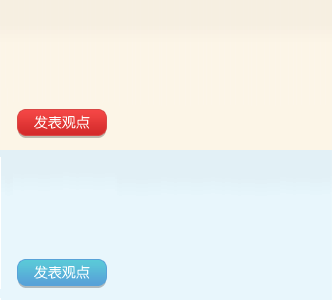
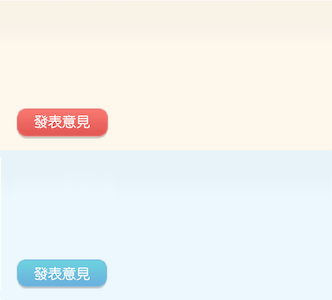
images and wordings with mascot

diff --git a/public/app/views/frontpage/pkview-page-details.html b/public/app/views/frontpage/pkview-page-details.html
@@ -20,10 +20,10 @@
                 <b class="bar-bg-r abs"></b>
                 <table>
                     <tbody><tr>
-                        <td class="bar-l" style="width: 70%;"><span id="zf_span"><span id="zf_text">紅方比例 </span>
+                        <td class="bar-l" style="width: 70%;"><span id="zf_span"><span id="zf_text">紅豆豆 </span>
                             <span id="zf_percent">70</span>%</span></td><td class="bar-r">
                             <span id="ff_text">
-                            <span id="ff_text">藍方比例 </span>
+                            <span id="ff_text">藍豆豆 </span>
                             <span id="ff_persent">30</span>%</span>
                         </td>
                     </tr></tbody>
@@ -37,9 +37,9 @@
                 <div class="intro rel">
                     <h2 class="abs" id="red_agree_count">27</h2>
                     <a href="javascript:void(0);" class="abs" id="red_agree_a"></a>
-                    <em class="abs" id="red_camp" ng-show="pkview.isRed">(我已投票給紅方)</em>
-                        <dl class="f14 abs">
-                        <dt>紅方：</dt>
+                    <em class="abs" id="red_camp" ng-show="pkview.isRed">(我支持紅豆豆)</em>
+                    <dl class="f14 abs">
+                        <dt>紅豆豆：</dt>
                         <dd>
                             <p>{{pkview.red_ds}}</p>
                             <span class="f12">已發表觀點：<span class="f16" id="red_view_count">{{pkview.norv}}</span></span>
@@ -52,7 +52,7 @@
                     <span class="abs" id="r_z">您還可以輸入<b>140</b>字</span>
                 </div>
                 <div class="tabs rel" id="red_gd_tab">
-                <a href="javascript:void(0)" class="selected">大家的观点</a></div>
+                <a href="javascript:void(0)" class="selected">大家的觀點</a></div>
                 <div class="order rel" id="red_order_tab">
                 <a href="javascript:void(0)" class="cBlues">按时间排列</a>|<a href="javascript:void(0)">按热度排列</a></div>
                 <div class="list rel" id="r_container">
@@ -62,7 +62,6 @@
                     <div id="item_300411" class="item" style="">
                         <div class="user"><a class="avatar" target="_blank" href="http://home.babytree.com/u89806957267"><img src="http://pic05.babytreeimg.com/foto3/thumbs/2014/0615/99/5/14e8e96ad33dacc24108dc33_hs.jpg"></a><a href="http://home.babytree.com/u89806957267" target="_blank" title="我家的鲁西西">我家的鲁西</a></div><div class="comm"><ins></ins><div class="text"><span>反驳<a href="http://home.babytree.com/u13364416735" target="_blank">多多妈1229</a>：<br>可是不容否认的是 缺陷的孩子还是很多的啊 特别是周围的中老年人中 智障的什么的 更多吧<div class="quote"><span>“我们上几辈也没补充什么营养啊，我们不也挺好的”</span></div></span></div><div class="status"><b>2014-12-21 20:44</b><a href="javascript:void(0)">反驳(<span>0)</span></a><a href="javascript:void(0)">顶(<span>0</span>)</a></div><div class="input-box rel" style="display: none;"><textarea class="f12"></textarea><label class="abs"><input type="checkbox">同步到薇博</label><a href="javascript:void(0)" class="abs"></a></div></div>
                     </div>
-                    <div class="list-page"><a href="javascript:void(0)">首页</a><a class="cBlue" href="javascript:void(0)" attr="1">1</a><a href="javascript:void(0)" attr="2">2</a><a href="javascript:void(0)" attr="3">3</a><a href="javascript:void(0)" attr="4">4</a><a href="javascript:void(0)" attr="5">5</a><a href="javascript:void(0)" attr="6">6</a><a href="javascript:void(0)" attr="7">7</a><a href="javascript:void(0)" attr="8">8</a><a href="javascript:void(0)" attr="9">9</a><a href="javascript:void(0)">...</a><a href="javascript:void(0)">下一页</a><a href="javascript:void(0)">尾页</a></div>
                 </div>
                 <img src="http://img03.babytreeimg.com/img/common/loading_pic_s.gif" id="l_loadimg" class="loadimg" style="display: none;">
             </div>
@@ -73,9 +72,9 @@
                 <div class="intro rel">
                     <h2 class="abs" id="blue_agree_count">3</h2>
                     <a href="javascript:void(0);" class="abs" id="blue_agree_a"></a>
-                    <em class="abs" id="blue_camp" ng-show="pkview.isBlue">(我已投票給藍方)</em>
-                        <dl class="f14 abs">
-                        <dt>藍方：</dt>
+                    <em class="abs" id="blue_camp" ng-show="pkview.isBlue">(我支持藍豆豆)</em>
+                    <dl class="f14 abs">
+                        <dt>藍豆豆：</dt>
                         <dd>
                             <p>{{pkview.blue_ds}}</p>
                             <span class="f12">已發表觀點：<span class="f16" id="blue_view_count">{{pkview.nobv}}</span></span>
@@ -88,7 +87,7 @@
                     <span class="abs" id="b_z">您還可以輸入<b>140</b>字</span>
                 </div>
                 <div class="tabs rel" id="blue_gd_tab">
-                <a href="javascript:void(0)" class="selected">大家的观点</a></div>
+                <a href="javascript:void(0)" class="selected">大家的觀點</a></div>
                 <div class="order rel" id="blue_order_tab">
                 <a href="javascript:void(0)" class="cBlues">按时间排列</a>|<a href="javascript:void(0)">按热度排列</a></div>
                 <div class="list rel" id="b_container">
@@ -98,7 +97,6 @@
                     <div id="item_300411" class="item" style="">
                         <div class="user"><a class="avatar" target="_blank" href="http://home.babytree.com/u89806957267"><img src="http://pic05.babytreeimg.com/foto3/thumbs/2014/0615/99/5/14e8e96ad33dacc24108dc33_hs.jpg"></a><a href="http://home.babytree.com/u89806957267" target="_blank" title="我家的鲁西西">我家的鲁西</a></div><div class="comm"><ins></ins><div class="text"><span>反驳<a href="http://home.babytree.com/u13364416735" target="_blank">多多妈1229</a>：<br>可是不容否认的是 缺陷的孩子还是很多的啊 特别是周围的中老年人中 智障的什么的 更多吧<div class="quote"><span>“我们上几辈也没补充什么营养啊，我们不也挺好的”</span></div></span></div><div class="status"><b>2014-12-21 20:44</b><a href="javascript:void(0)">反驳(<span>0)</span></a><a href="javascript:void(0)">顶(<span>0</span>)</a></div><div class="input-box rel" style="display: none;"><textarea class="f12"></textarea><label class="abs"><input type="checkbox">同步到薇博</label><a href="javascript:void(0)" class="abs"></a></div></div>
                     </div>
-                    <div class="list-page"><a href="javascript:void(0)">首页</a><a class="cBlue" href="javascript:void(0)" attr="1">1</a><a href="javascript:void(0)" attr="2">2</a><a href="javascript:void(0)" attr="3">3</a><a href="javascript:void(0)" attr="4">4</a><a href="javascript:void(0)" attr="5">5</a><a href="javascript:void(0)" attr="6">6</a><a href="javascript:void(0)" attr="7">7</a><a href="javascript:void(0)" attr="8">8</a><a href="javascript:void(0)" attr="9">9</a><a href="javascript:void(0)">...</a><a href="javascript:void(0)">下一页</a><a href="javascript:void(0)">尾页</a></div>
                 </div>
                 <img src="http://img03.babytreeimg.com/img/common/loading_pic_s.gif" id="l_loadimg" class="loadimg" style="display: none;">
             </div>

diff --git a/public/app/custom-css/pkview.css b/public/app/custom-css/pkview.css
@@ -108,9 +108,9 @@
     font-weight: normal;
     color: #fff;
     display: block;
-    width: 120px;
+    width: 128px;
     text-align: center;
-    top: 28px;
+    top: 8px;
     margin: 0;
 }
 .pkview-box-main .intro a {
@@ -123,7 +123,7 @@
 .pkview-box-main .intro em {
     color: #fff;
     top: 106px;
-    left: 12px;
+    left: 20px;
     font-style: normal;
 }
 .pkview-box-main .intro dl {
@@ -132,7 +132,7 @@
     line-height: 1.5;
 }
 .pkview-box-main .intro dt {
-    width: 50px;
+    width: 100px;
     float: left;
     font-weight: bold;
 }
@@ -179,7 +179,7 @@
     background: url(../images/frontpage/pkview/intro.png) 0 0;
 }
 .pkview-box-main .col-l .intro dl {
-    color: #E8332F;
+    color: #F24B48;
 }
 .pkview-box-main .col-l .textarea {
     background: url(../images/frontpage/pkview/textarea.png) 0 0;
